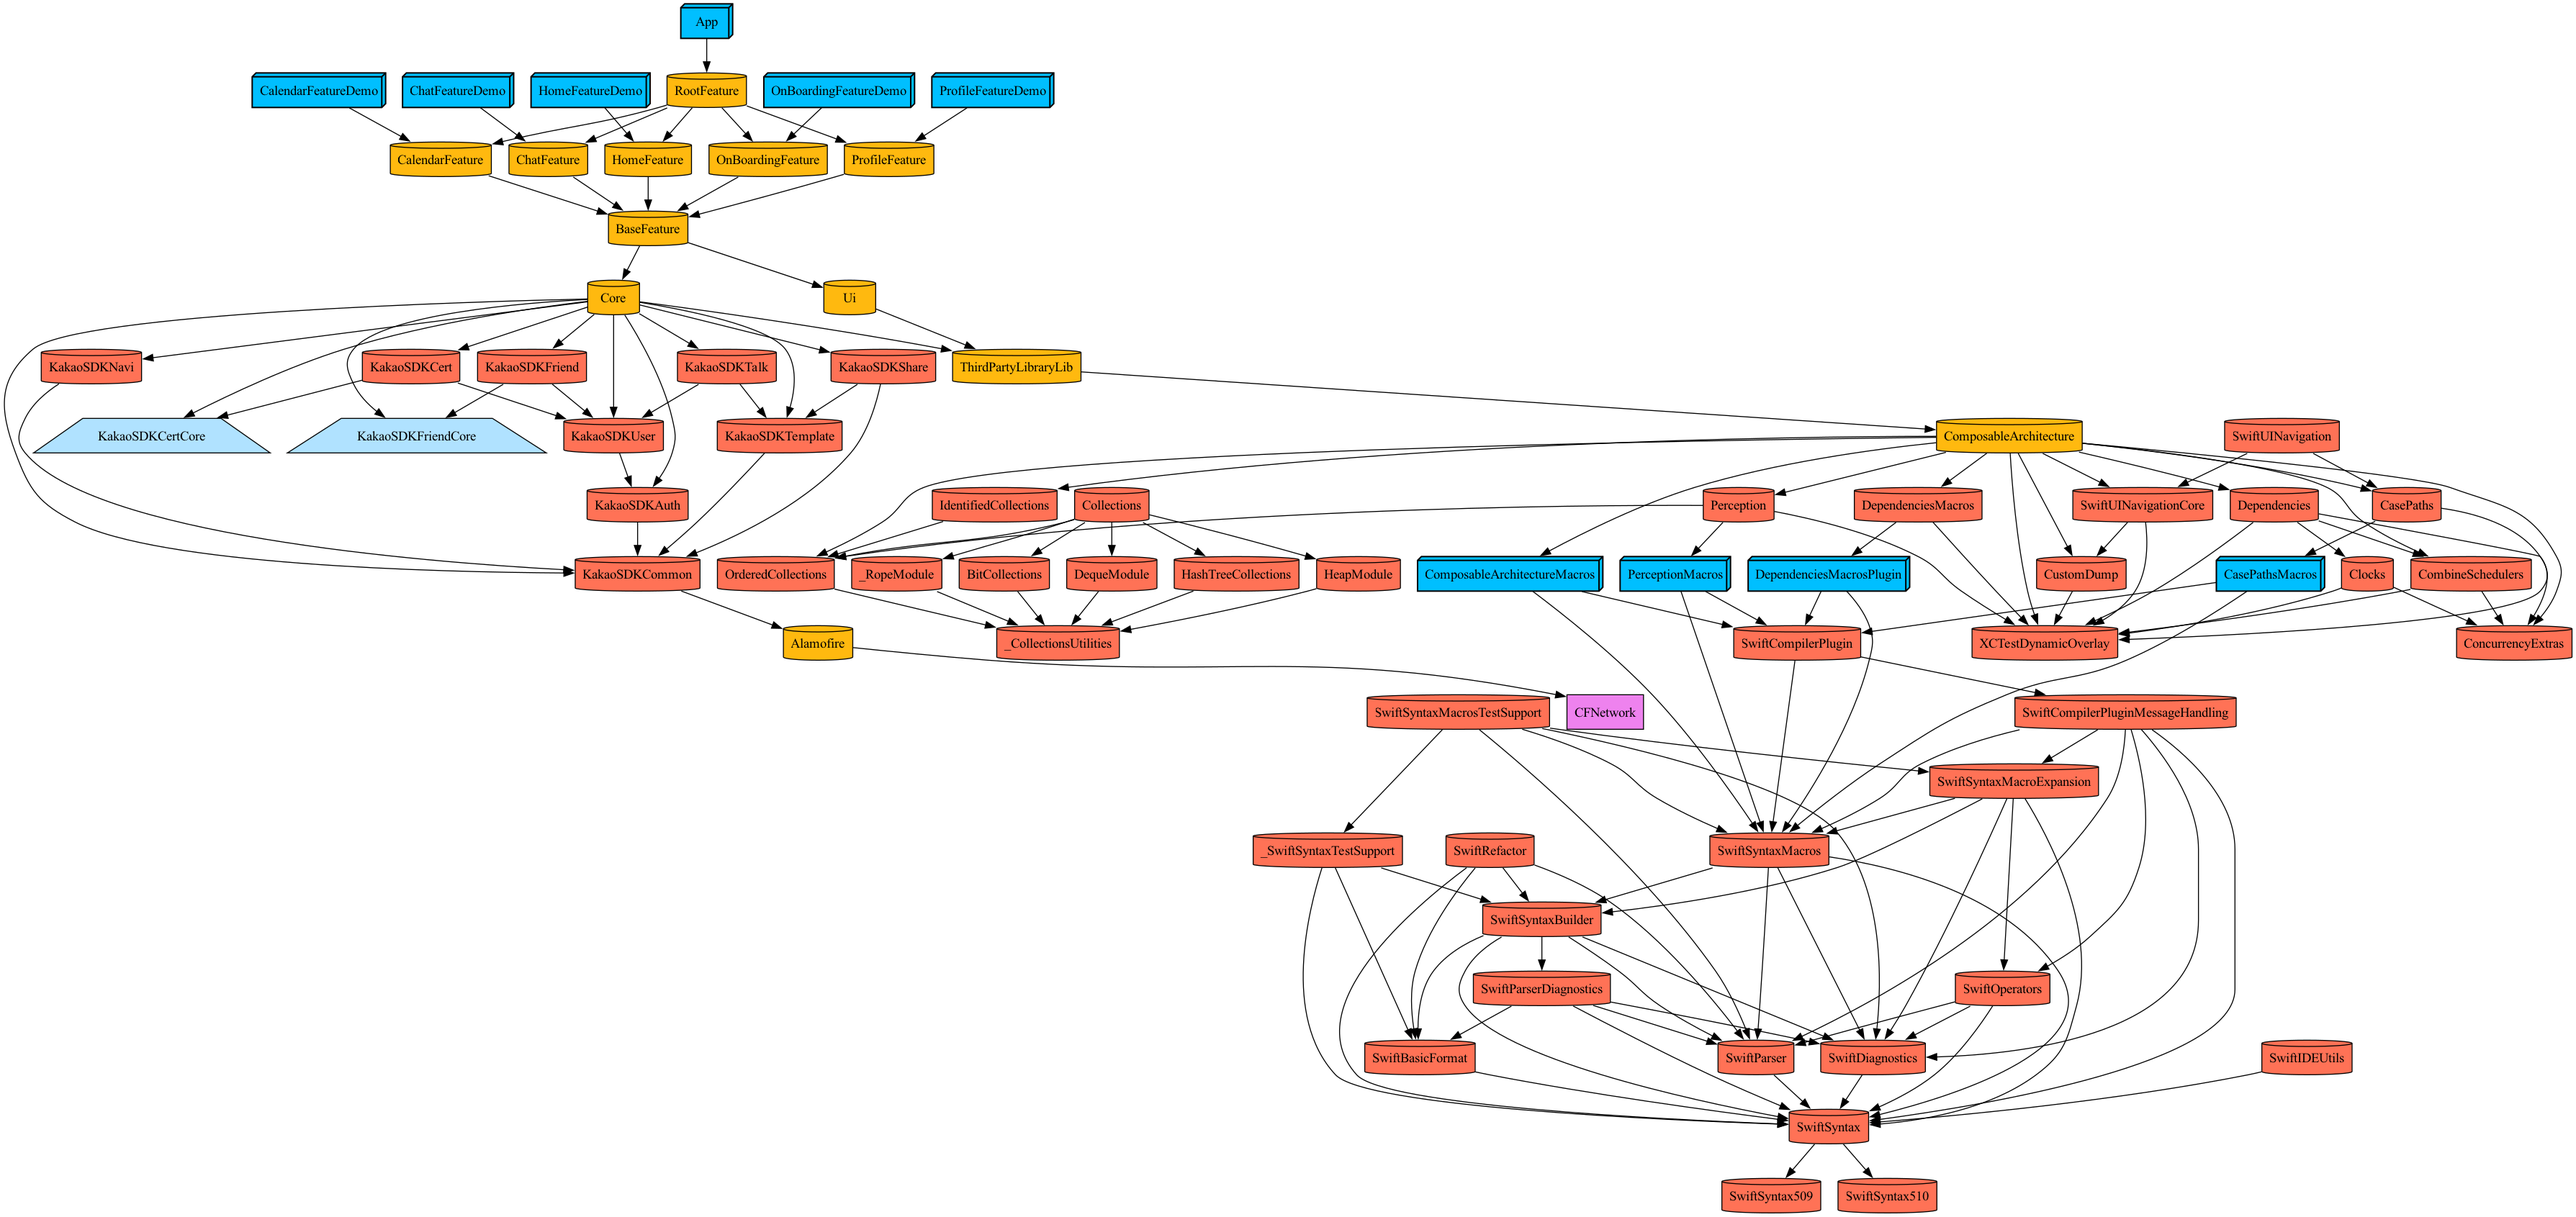
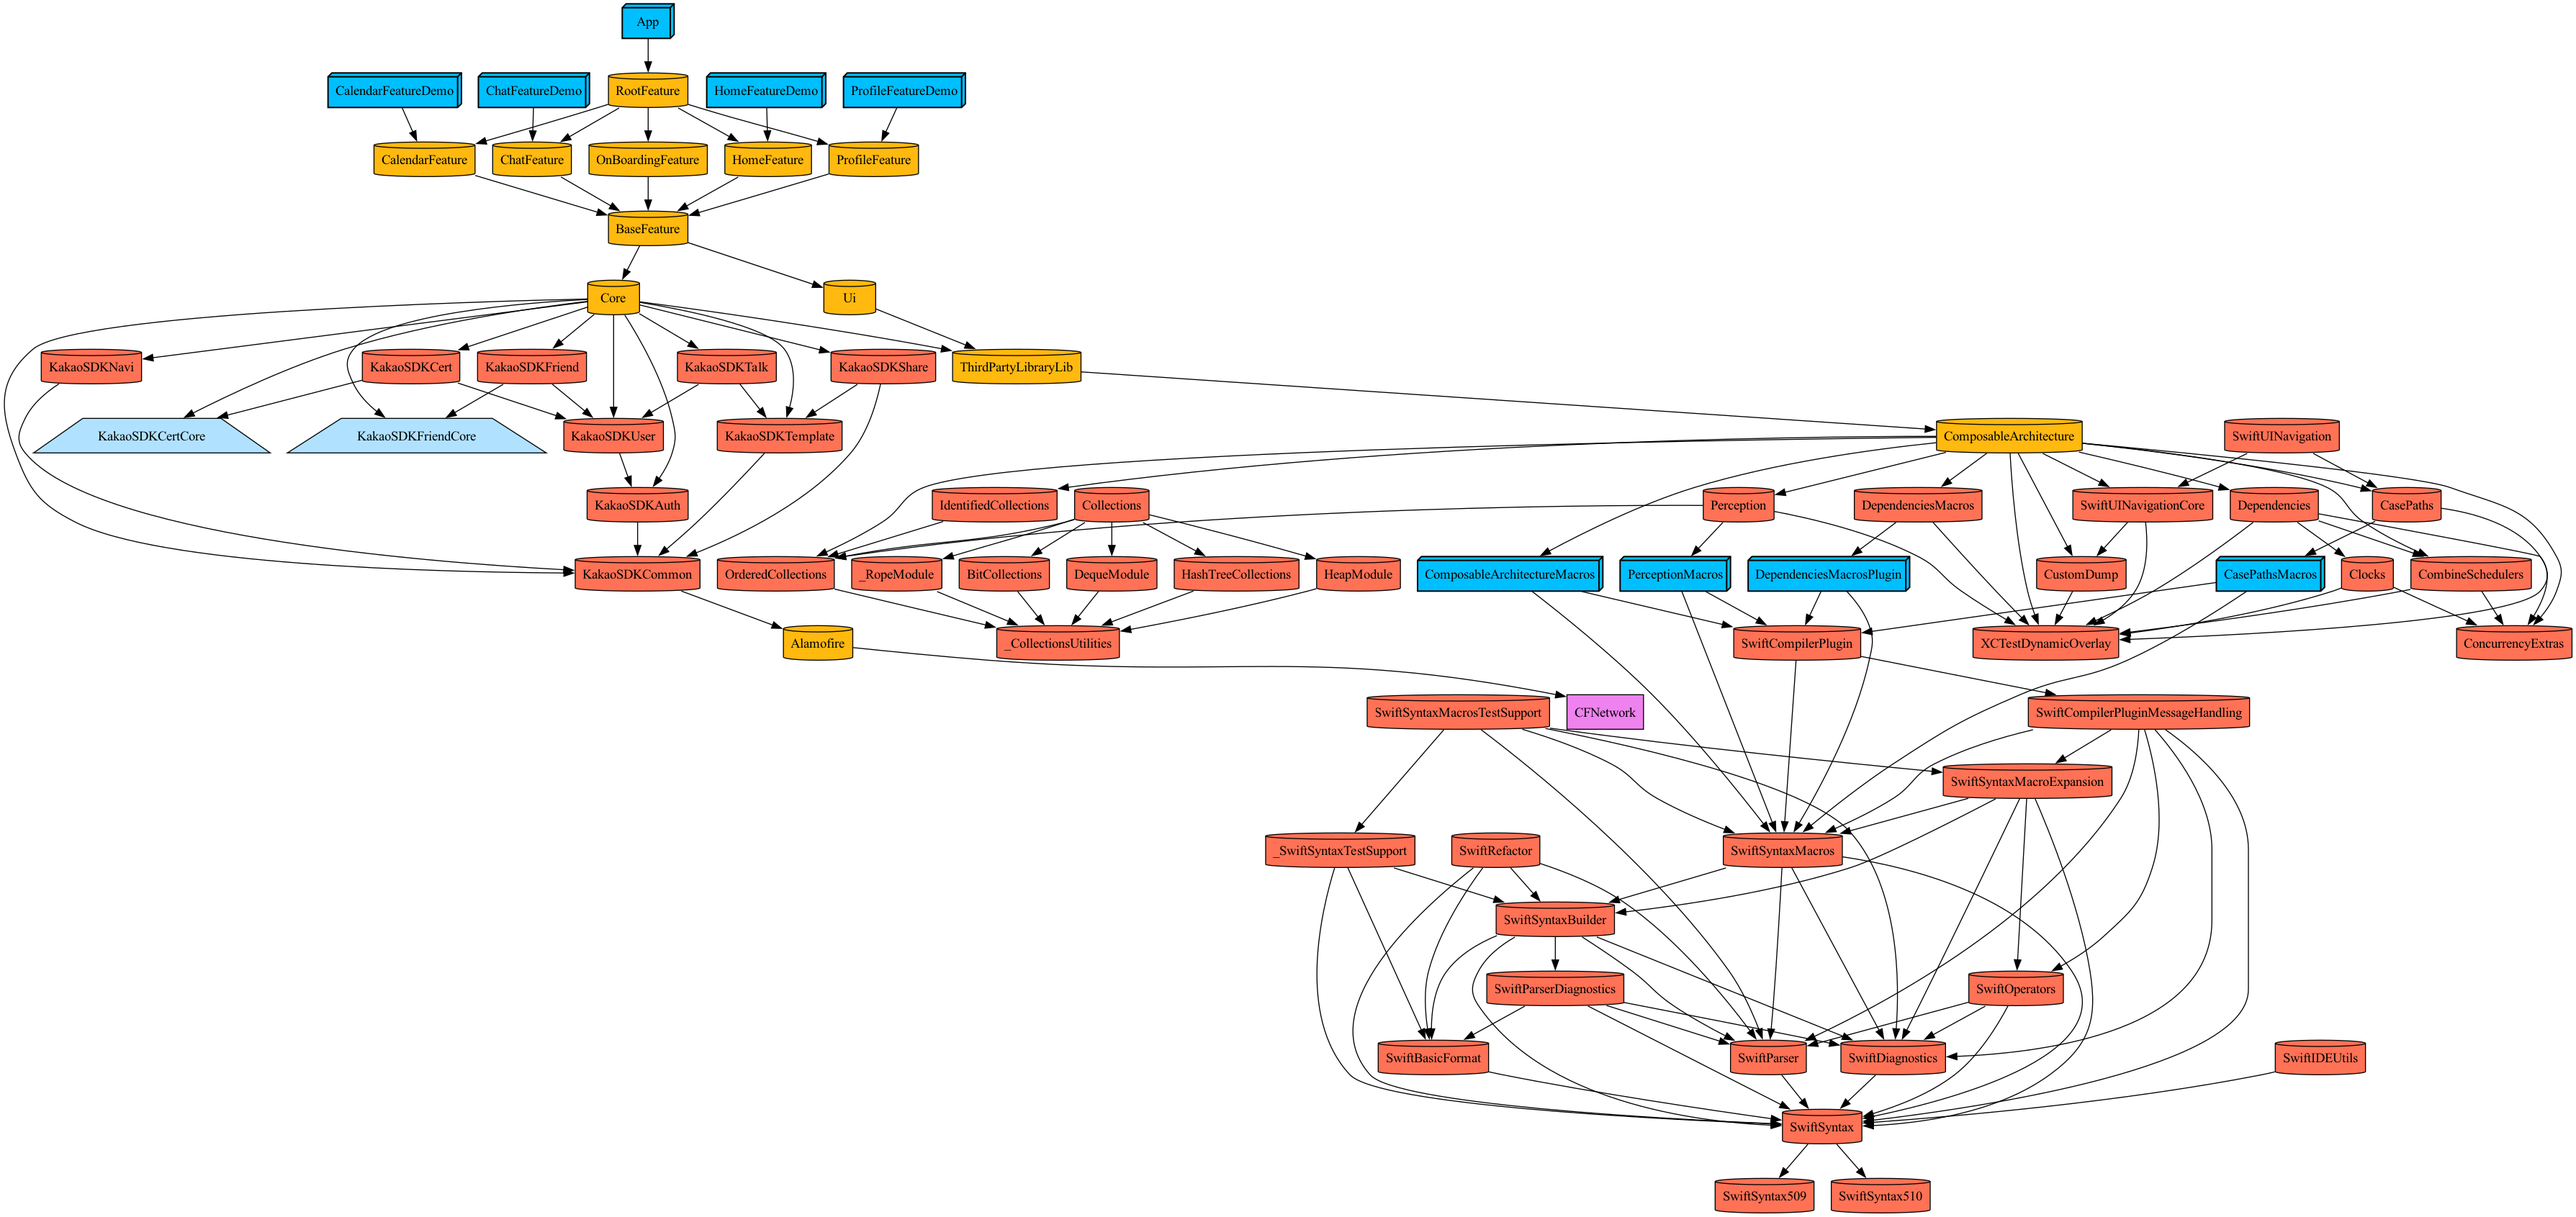
DMVM-[155](add): add internal dependcy

Changed region(s): [[0.4653, 0.5228, 0.8686, 1.0], [0.0931, 0.0, 0.4343, 0.1845], [0.8686, 0.861, 0.9307, 0.8918]]

diff --git a/Mongle/Projects/Features/OnBoardingFeature/Project.swift b/Mongle/Projects/Features/OnBoardingFeature/Project.swift
@@ -12,6 +12,6 @@ let project = Project.makeModule(
     name: Features.onBoardingFeature.name,
     targets: [.frameWork, .demo],
     directoryPath: Features.onBoardingFeature.path.pathString,
-    internalDependencies: [Features.baseFeature.project],
+    internalDependencies: [Features.baseFeature.project, Features.homeFeature.project],
     entitlements: .init("OnBoardingFeatureDemo.entitlements")
 )
